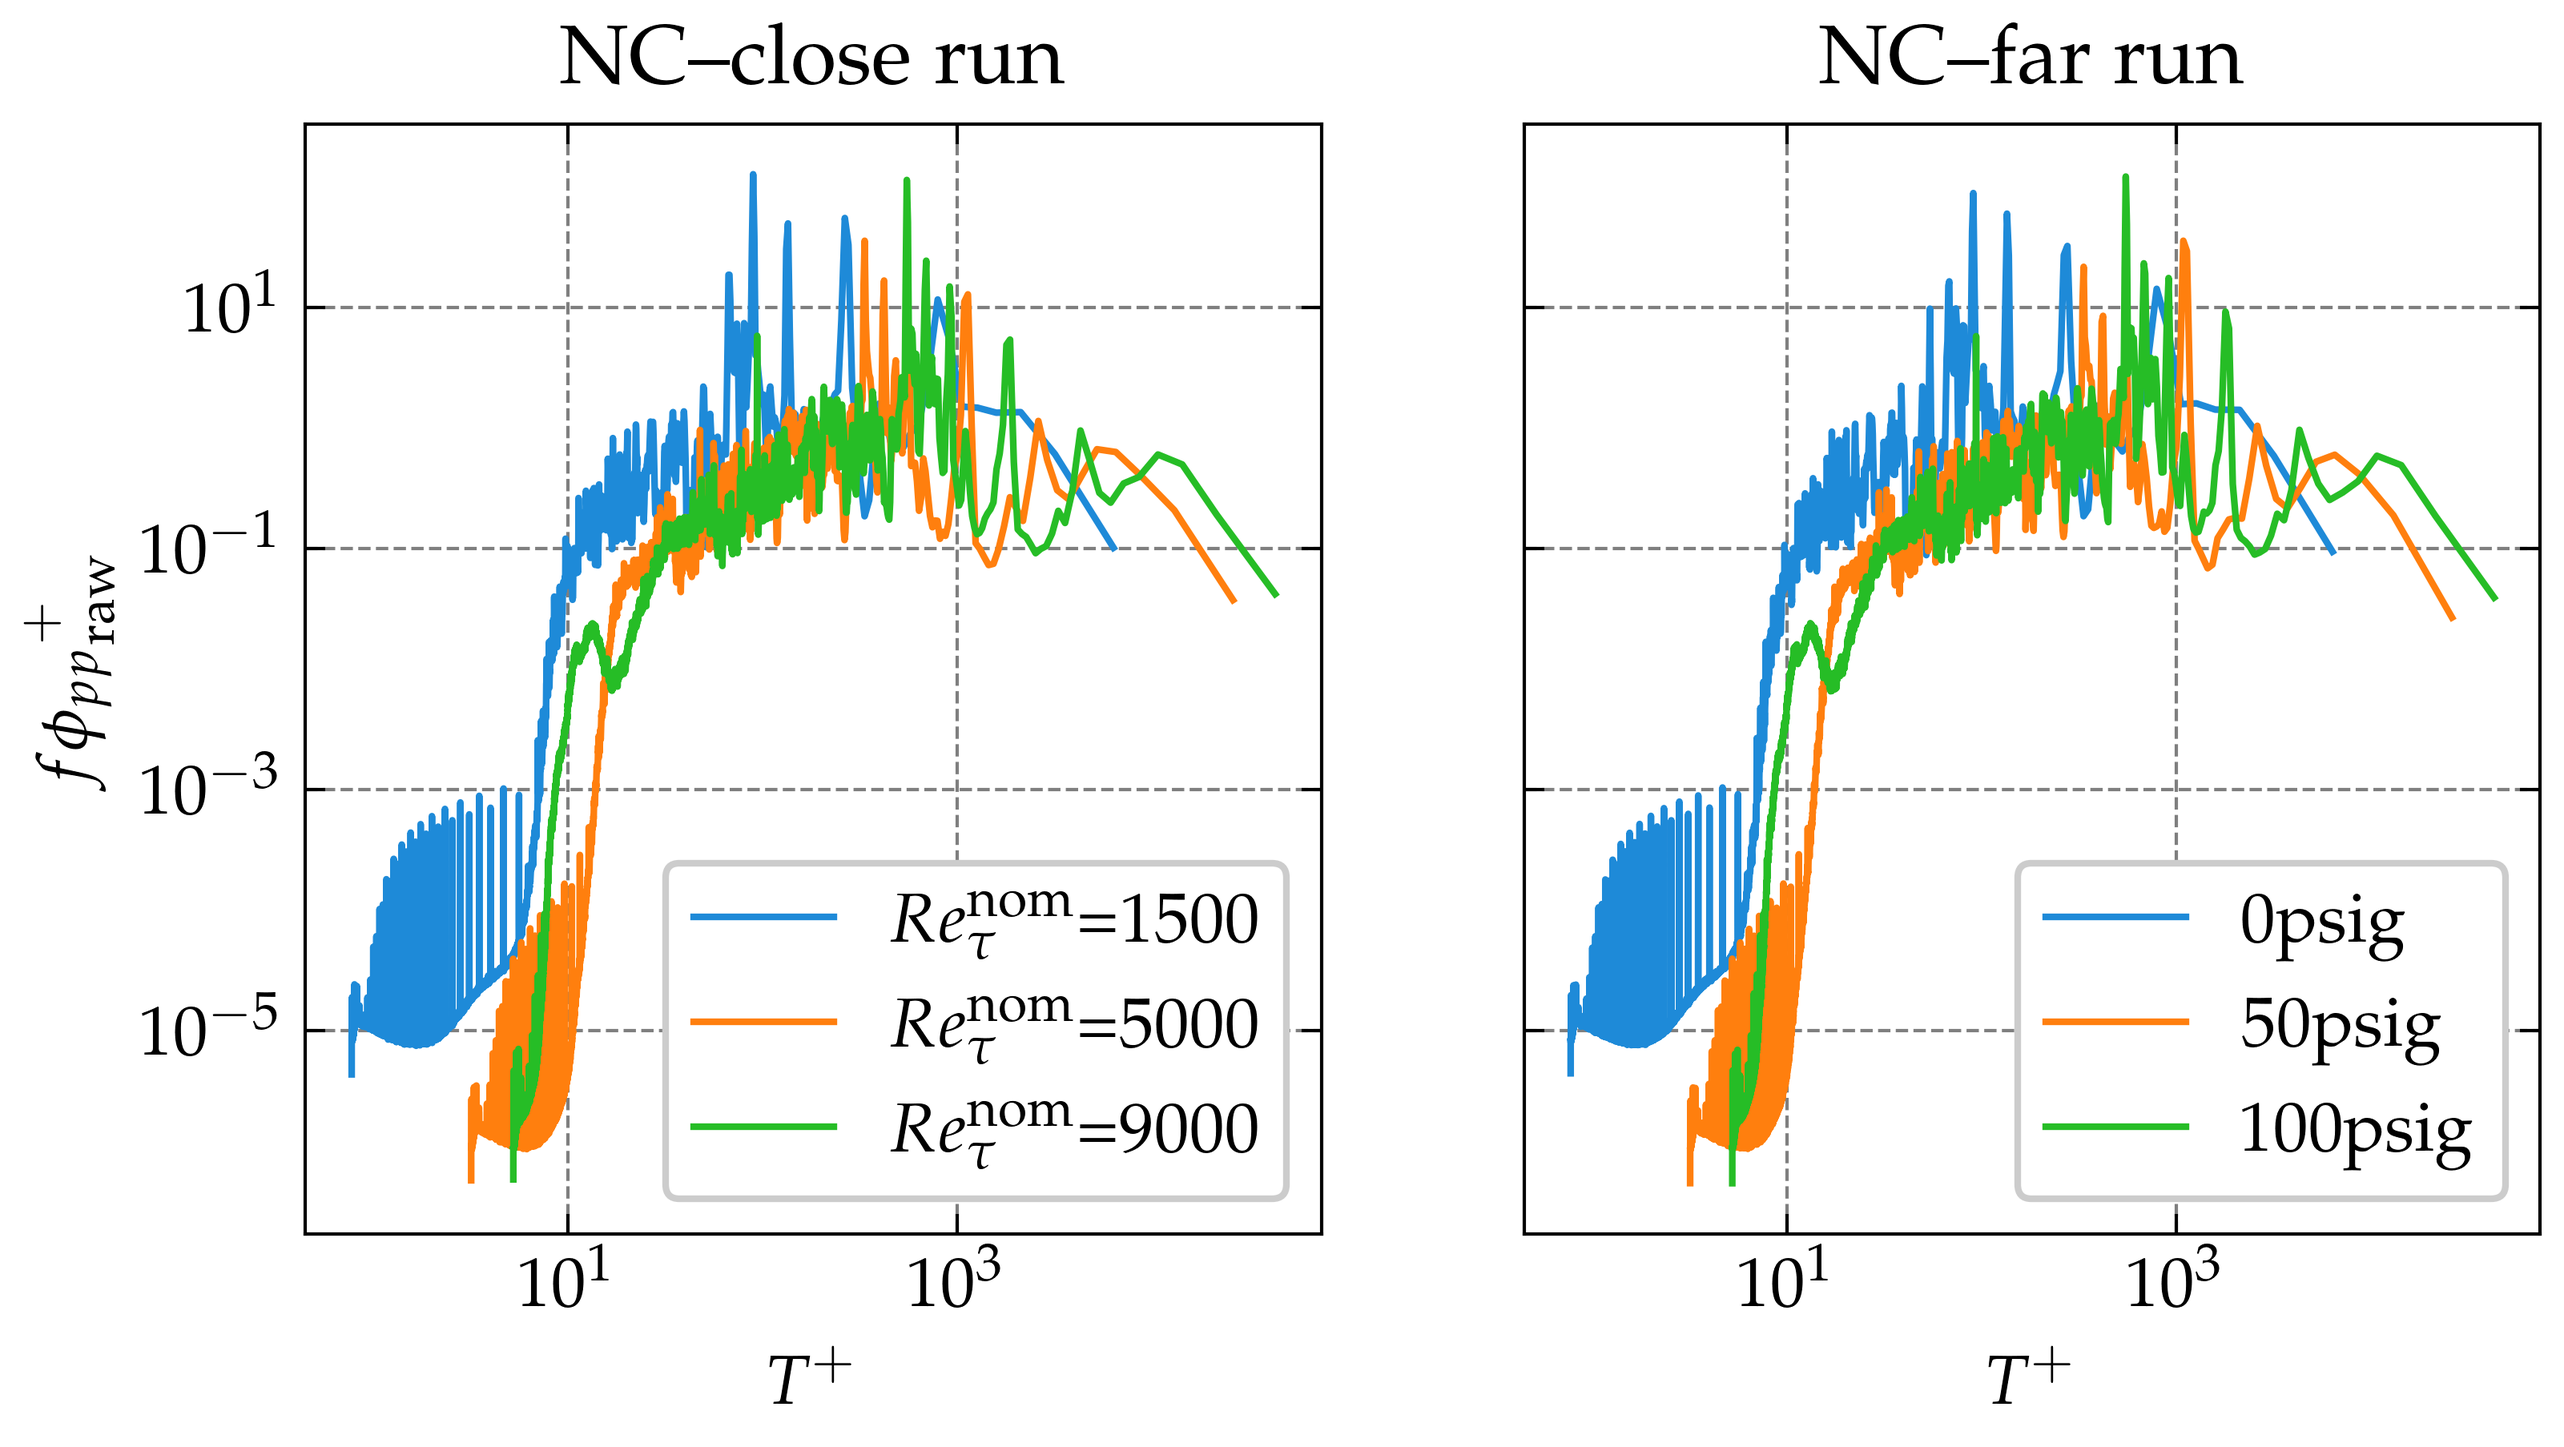
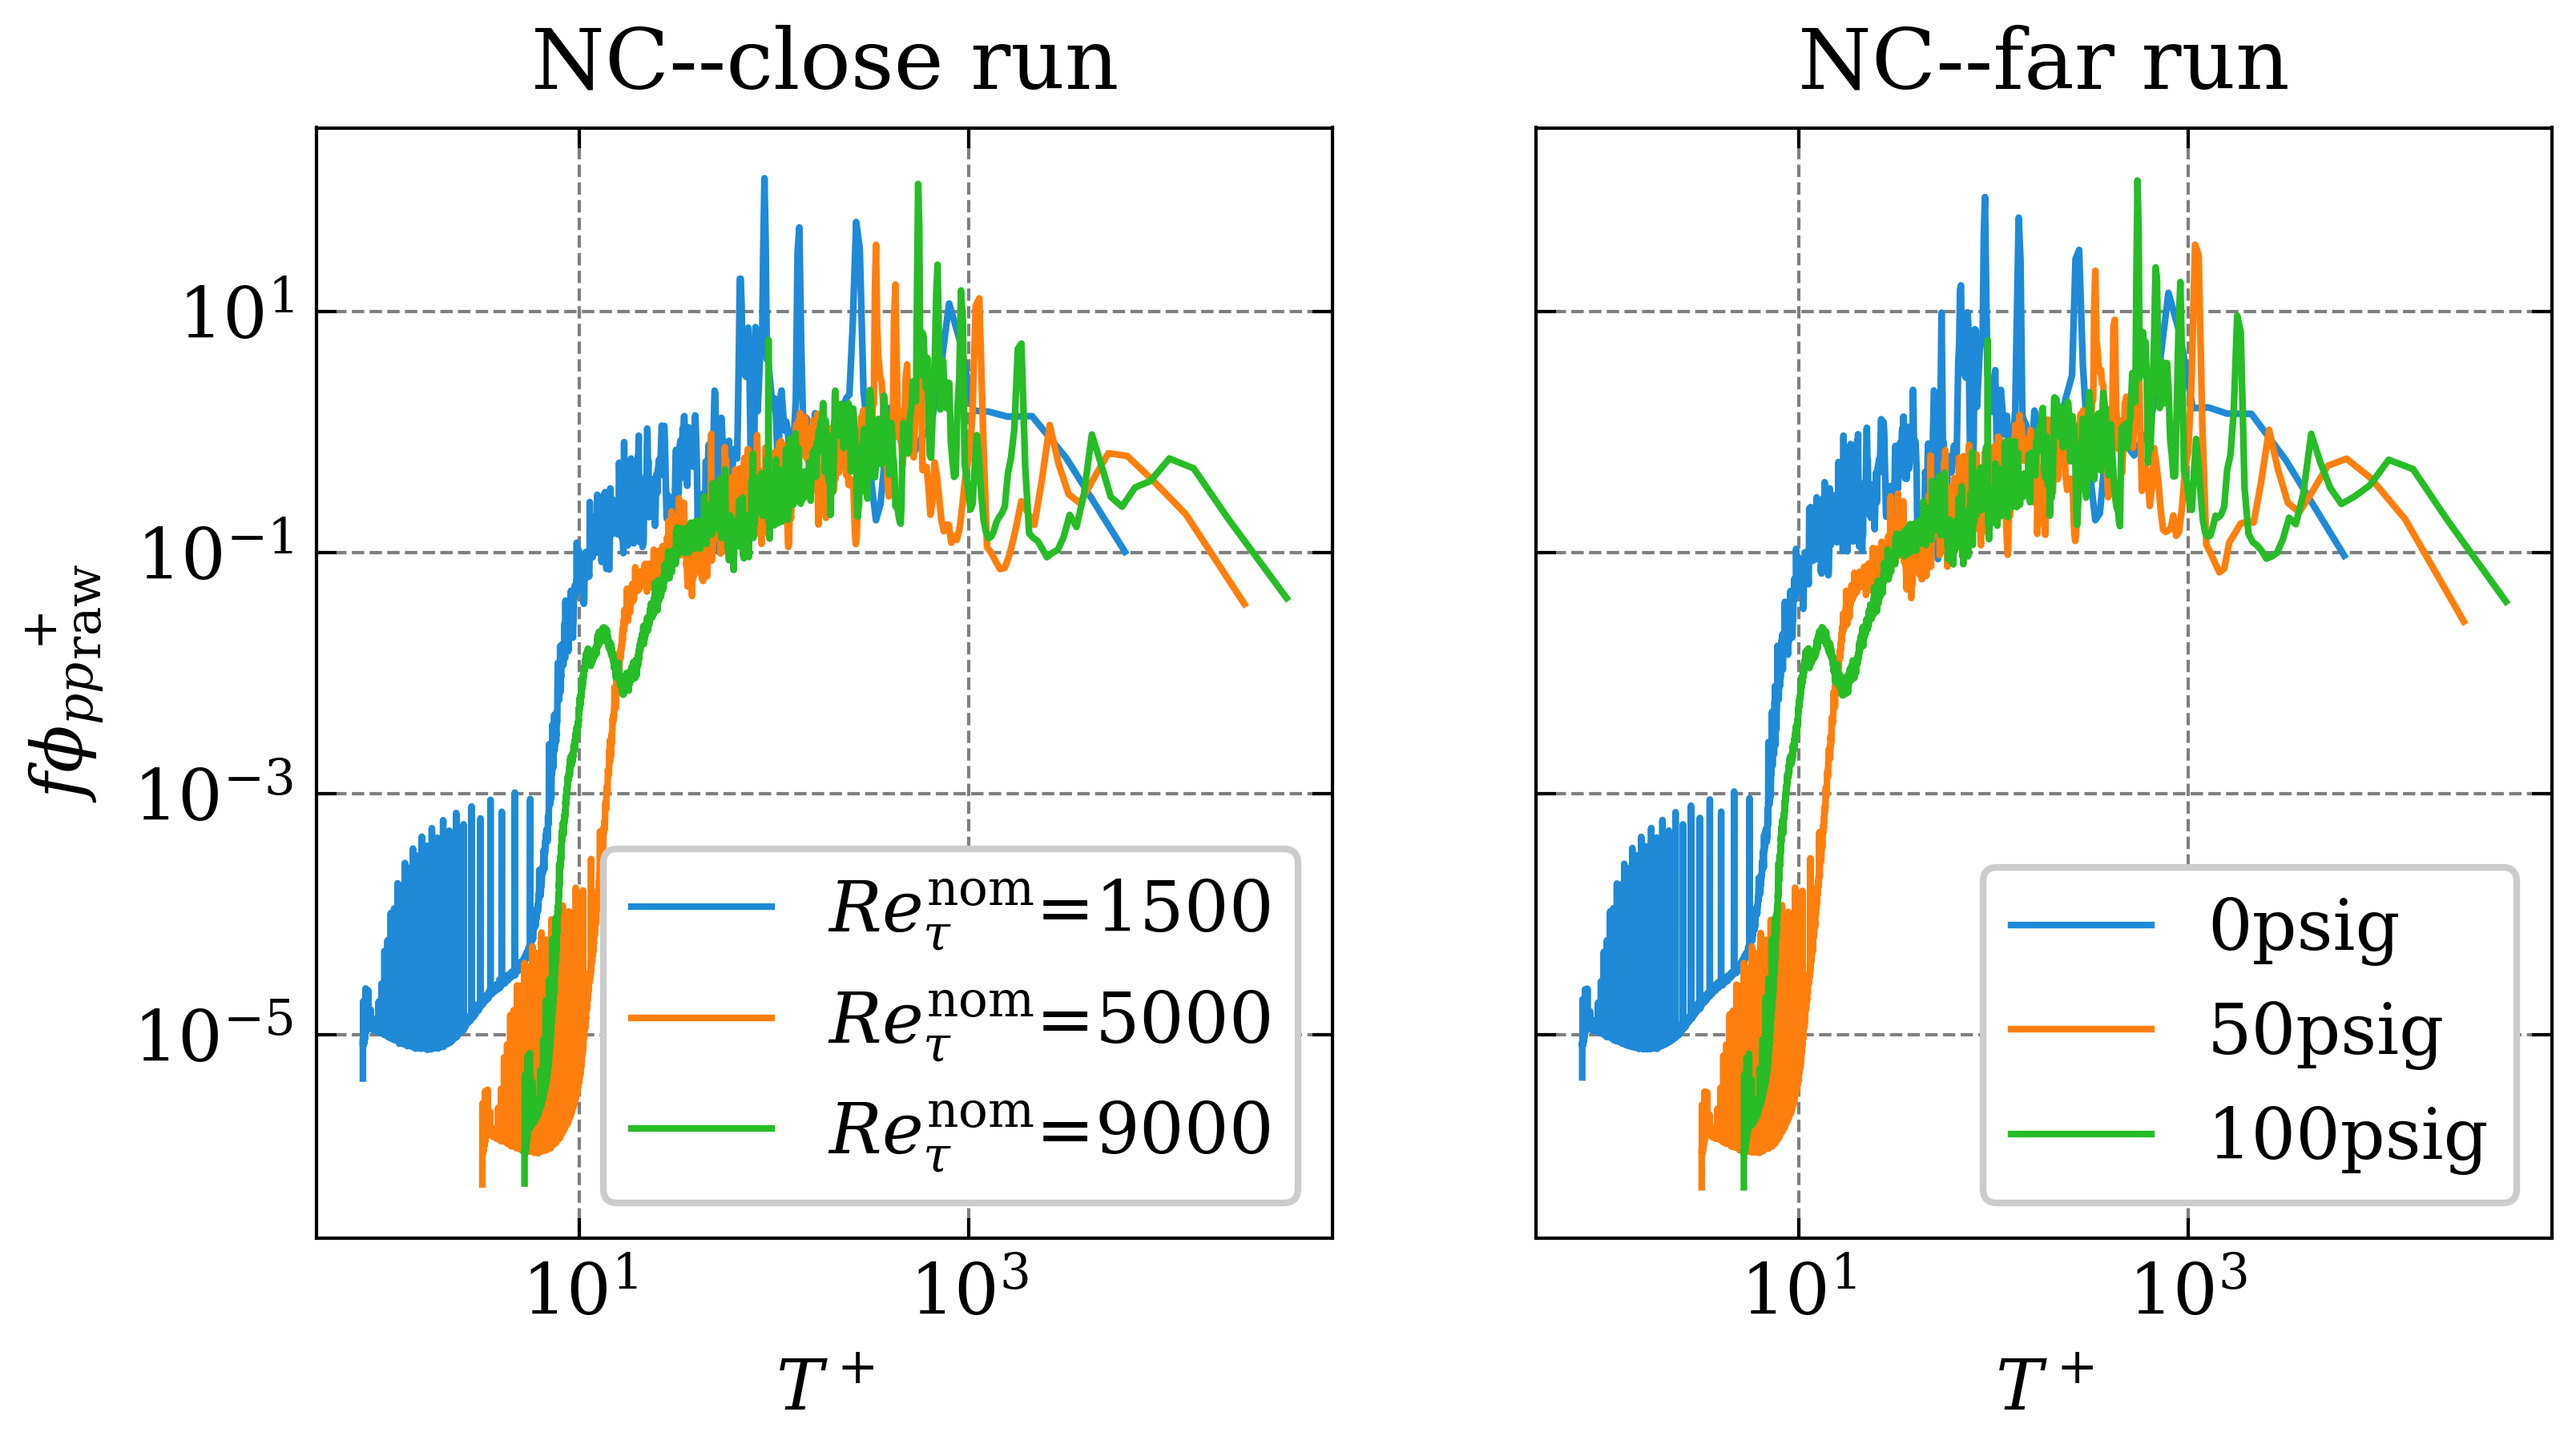
Docker implementation works! README is updated as well

diff --git a/src/checks/plot/_style.py b/src/checks/plot/_style.py
@@ -1,0 +1,28 @@
+from __future__ import annotations
+
+import os
+import shutil
+
+import matplotlib.pyplot as plt
+import scienceplots  # noqa: F401  # Registers "science" styles.
+
+
+def apply_plot_style() -> None:
+    plt.style.use(["science", "grid"])
+    plt.rcParams["font.size"] = 10.5
+
+    use_tex_raw = os.getenv("PRESSUREPROCESS_USE_TEX", "auto").strip().lower()
+    if use_tex_raw == "auto":
+        use_tex = shutil.which("latex") is not None
+    elif use_tex_raw in {"1", "true", "yes", "on"}:
+        use_tex = True
+    elif use_tex_raw in {"0", "false", "no", "off"}:
+        use_tex = False
+    else:
+        raise ValueError(
+            "PRESSUREPROCESS_USE_TEX must be one of: auto, true, false"
+        )
+
+    plt.rc("text", usetex=use_tex)
+    if use_tex:
+        plt.rc("text.latex", preamble=r"\usepackage{mathpazo}")

diff --git a/src/checks/plot/SU_two_point.py b/src/checks/plot/SU_two_point.py
@@ -4,20 +4,17 @@ import h5py
 import numpy as np
 import matplotlib.pyplot as plt
 from scipy.signal import welch, get_window
-import scienceplots
 from matplotlib.colors import to_rgba
 from matplotlib.lines import Line2D
 from icecream import ic
 from tqdm import tqdm
 
 from src.config_params import Config
+from src.checks.plot._style import apply_plot_style
 
 cfg = Config()
 
-plt.style.use(["science", "grid"])
-plt.rcParams["font.size"] = 10.5
-plt.rc("text", usetex=True)
-plt.rc("text.latex", preamble=r"\usepackage{mathpazo}")
+apply_plot_style()
 
 # -------------------- constants --------------------
 FS = cfg.FS

diff --git a/src/checks/plot/G_wallp_SU_production.py b/src/checks/plot/G_wallp_SU_production.py
@@ -4,19 +4,16 @@ import h5py
 import numpy as np
 import matplotlib.pyplot as plt
 from scipy.signal import welch, get_window
-import scienceplots
 from matplotlib.colors import to_rgba
 from matplotlib.lines import Line2D
 from icecream import ic
 
 from src.config_params import Config
+from src.checks.plot._style import apply_plot_style
 
 cfg = Config()
 
-plt.style.use(["science", "grid"])
-plt.rcParams["font.size"] = 10.5
-plt.rc("text", usetex=True)
-plt.rc("text.latex", preamble=r"\usepackage{mathpazo}")
+apply_plot_style()
 
 # -------------------- constants --------------------
 FS = cfg.FS

diff --git a/src/checks/plot/F_freestreamp_SU_production.py b/src/checks/plot/F_freestreamp_SU_production.py
@@ -4,17 +4,14 @@ import h5py
 import numpy as np
 import matplotlib.pyplot as plt
 from scipy.signal import welch, get_window
-import scienceplots
 from icecream import ic
 
 from src.config_params import Config
+from src.checks.plot._style import apply_plot_style
 
 cfg = Config()
 
-plt.style.use(["science", "grid"])
-plt.rcParams["font.size"] = 10.5
-plt.rc("text", usetex=True)
-plt.rc("text.latex", preamble=r"\usepackage{mathpazo}")
+apply_plot_style()
 
 # -------------------- constants --------------------
 FS = cfg.FS

diff --git a/src/checks/plot/F_freestreamp_SU_raw.py b/src/checks/plot/F_freestreamp_SU_raw.py
@@ -4,17 +4,14 @@ import h5py
 import numpy as np
 import matplotlib.pyplot as plt
 from scipy.signal import welch, get_window
-import scienceplots
 from icecream import ic
 
 from src.config_params import Config
+from src.checks.plot._style import apply_plot_style
 
 cfg = Config()
 
-plt.style.use(["science", "grid"])
-plt.rcParams["font.size"] = 10.5
-plt.rc("text", usetex=True)
-plt.rc("text.latex", preamble=r"\usepackage{mathpazo}")
+apply_plot_style()
 
 # -------------------- constants --------------------
 FS = cfg.FS

diff --git a/src/checks/plot/G_wallp_SU_raw.py b/src/checks/plot/G_wallp_SU_raw.py
@@ -4,17 +4,14 @@ import h5py
 import numpy as np
 import matplotlib.pyplot as plt
 from scipy.signal import welch, get_window
-import scienceplots
 from icecream import ic
 
 from src.config_params import Config
+from src.checks.plot._style import apply_plot_style
 
 cfg = Config()
 
-plt.style.use(["science", "grid"])
-plt.rcParams["font.size"] = 10.5
-plt.rc("text", usetex=True)
-plt.rc("text.latex", preamble=r"\usepackage{mathpazo}")
+apply_plot_style()
 
 # -------------------- constants --------------------
 FS = cfg.FS

diff --git a/README.md b/README.md
@@ -42,6 +42,8 @@ Notes:
 - The image installs CPU-only PyTorch and conservative thread defaults to reduce memory pressure on smaller hosts.
 - `--user "$(id -u):$(id -g)"` avoids host/container ownership mismatches.
 - `:Z` on bind mounts applies SELinux relabeling (needed on Fedora/RHEL/CentOS systems).
+- `PRESSUREPROCESS_USE_TEX` controls LaTeX labels in plots: `auto` (default), `true`, `false`.
+  In `auto`, LaTeX is used only if a `latex` binary is available.
 
 Usage overview
 --------------
